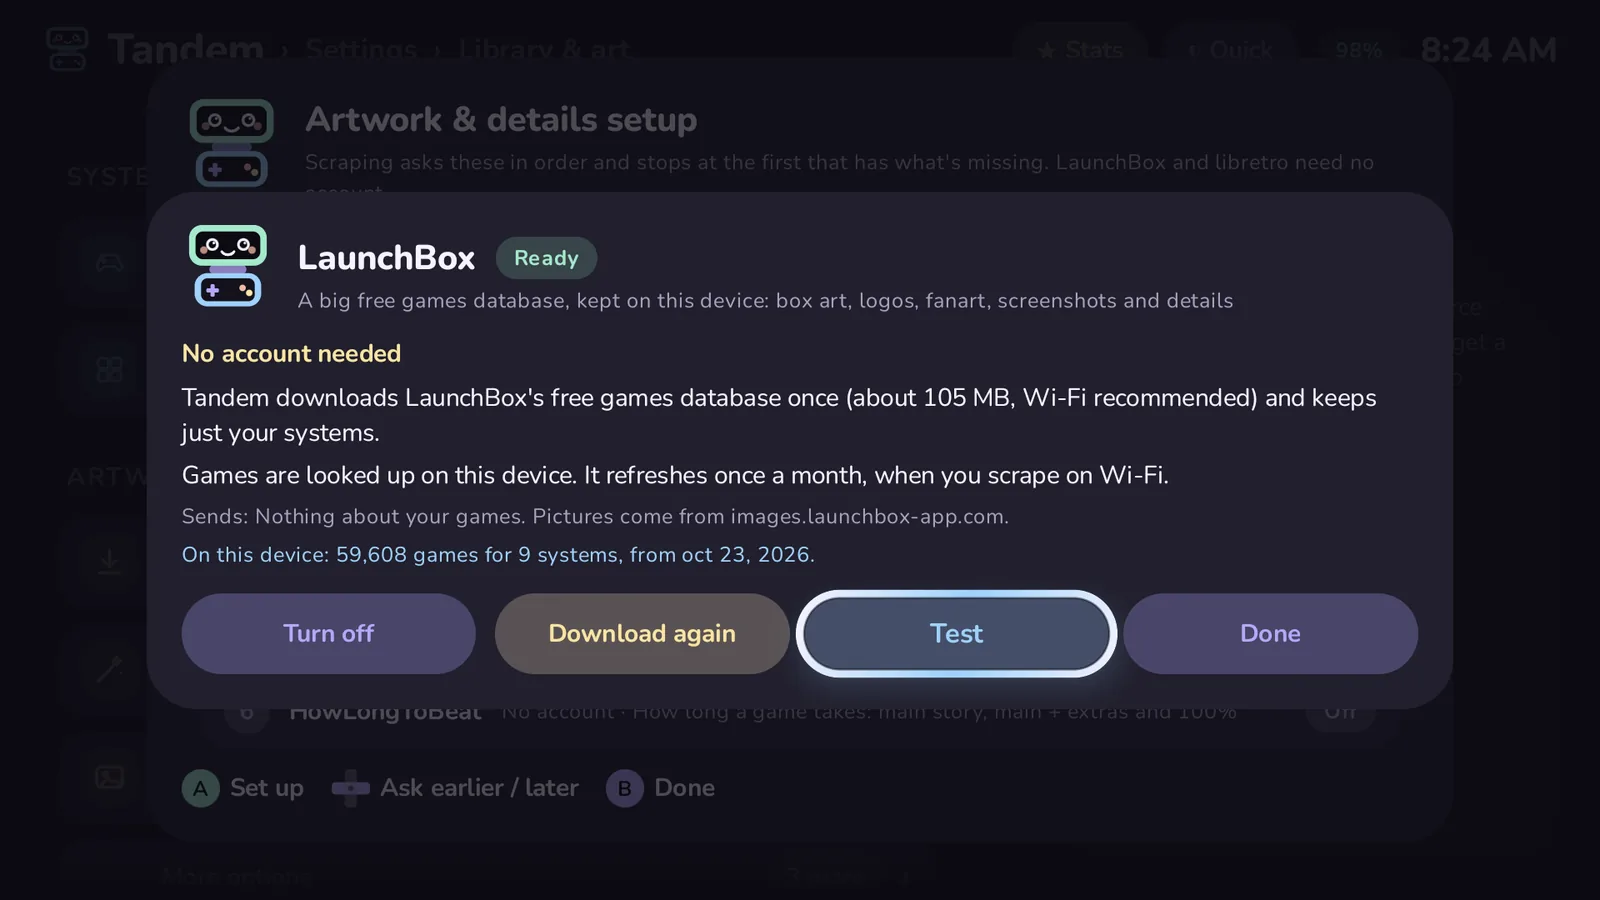
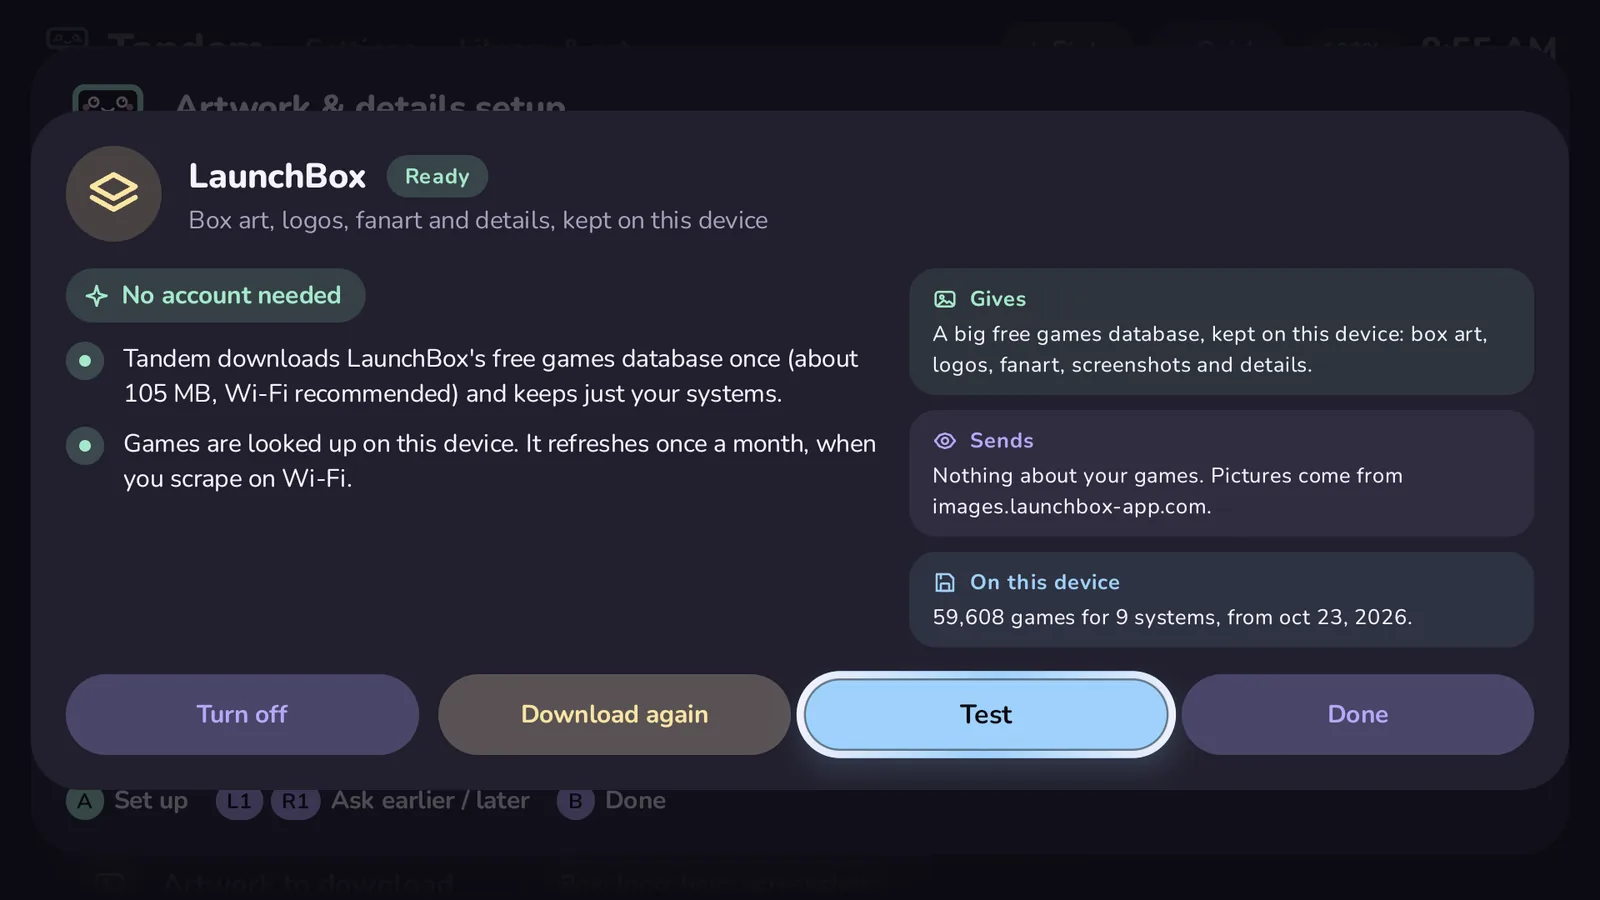
docs: the source grid and cards as they look now

diff --git a/docs/guide/scraping.md b/docs/guide/scraping.md
@@ -15,10 +15,10 @@ PC) as well as classic ones. Tandem downloads its index once and looks your game
 nothing about your games is sent anywhere. **libretro thumbnails** also needs no account and is always ready; it is
 great for classic systems and has nothing for Switch, Wii U or PC games.
 
-![The Artwork & details setup popup: six source tiles, numbered in the order they are asked (ScreenScraper, LaunchBox, IGDB, SteamGridDB, libretro thumbnails and HowLongToBeat), each with what it needs and its state.](../../site/assets/screenshots/guide/set-up-sources.webp "Settings › Library & art › Set up sources")
+![The Artwork & details setup popup: six source tiles in the order they are asked, left to right (ScreenScraper, LaunchBox, IGDB, SteamGridDB, libretro thumbnails and HowLongToBeat), each with its icon, what it needs, what it gives and its state.](../../site/assets/screenshots/guide/set-up-sources.webp "Settings › Library & art › Set up sources")
 
 1. Open **Settings › Library & art** (Start › Settings ▸ › Library & art) and press A on **Set up sources**. The
-   **Artwork & details setup** popup shows every source as a tile, numbered in the order they are asked, with what
+   **Artwork & details setup** popup shows every source as a tile, in the order they are asked (left to right), with what
    it needs and its state.
 2. Highlight **LaunchBox** (its state says **Not downloaded**) and press A. Its card explains what it gives.
 3. Press A on **Download (105 MB)**, then **Download** in the question. Wi-Fi is better; on a metered connection the
@@ -27,7 +27,7 @@ great for classic systems and has nothing for Switch, Wii U or PC games.
 5. **Done**, then <kbd>B</kbd> to close the list. Back on Library & art, press A on **Scrape library**, and on the
    scrape screen press A on **Start scraping**.
 
-![LaunchBox's card: No account needed, what it gives and sends, how many games are on this device, and the Turn off, Download again, Test and Done buttons.](../../site/assets/screenshots/guide/launchbox-card.webp "The LaunchBox card")
+![LaunchBox's card: No account needed with its two notes on the left; what it gives, what it sends and how many games are on this device on the right; and the Turn off, Download again, Test and Done buttons.](../../site/assets/screenshots/guide/launchbox-card.webp "The LaunchBox card")
 
 You can also skip step 3: when you start a scrape and LaunchBox hasn't been downloaded, Tandem asks **Download
 LaunchBox's games database?** with **Download & scrape** (download it, then scrape) or **Skip LaunchBox** (scrape
@@ -84,7 +84,7 @@ Community-made covers, hero art and logos, matched by title. Great for PC and Sw
    key on the on-screen keyboard and press **Done**.
 4. **Test**: it should say "Found Super Mario Odyssey with … heroes".
 
-![SteamGridDB's card: Free account, the three steps to get a key, the API key button, and Turn off, Test and Done.](../../site/assets/screenshots/guide/steamgriddb-card.webp "The SteamGridDB card")
+![SteamGridDB's card: Free account and the three steps to get a key on the left, what it gives and sends on the right, the API key field showing Not set, and Turn off, Test and Done.](../../site/assets/screenshots/guide/steamgriddb-card.webp "The SteamGridDB card")
 
 ### ScreenScraper (optional, needs developer credentials)
 
@@ -126,7 +126,7 @@ order** on the Library & art page, and in the scrape screen.
 | --- | --- |
 | The D-pad | Moves between the tiles |
 | <kbd>A</kbd> on a source | Opens its card: what it gives, whether it needs an account, exactly where to get a key, and what it sends |
-| <kbd>L1</kbd> / <kbd>R1</kbd> on a source | Asks it earlier or later (its number changes; the tile moves with the highlight) |
+| <kbd>L1</kbd> / <kbd>R1</kbd> on a source | Asks it earlier or later: the tile moves one place, and the highlight with it |
 | <kbd>B</kbd> | Done |
 
 A source's state: **Ready**, **Needs a key** (it will be skipped), **Not downloaded** (LaunchBox), **✓ Works** or
